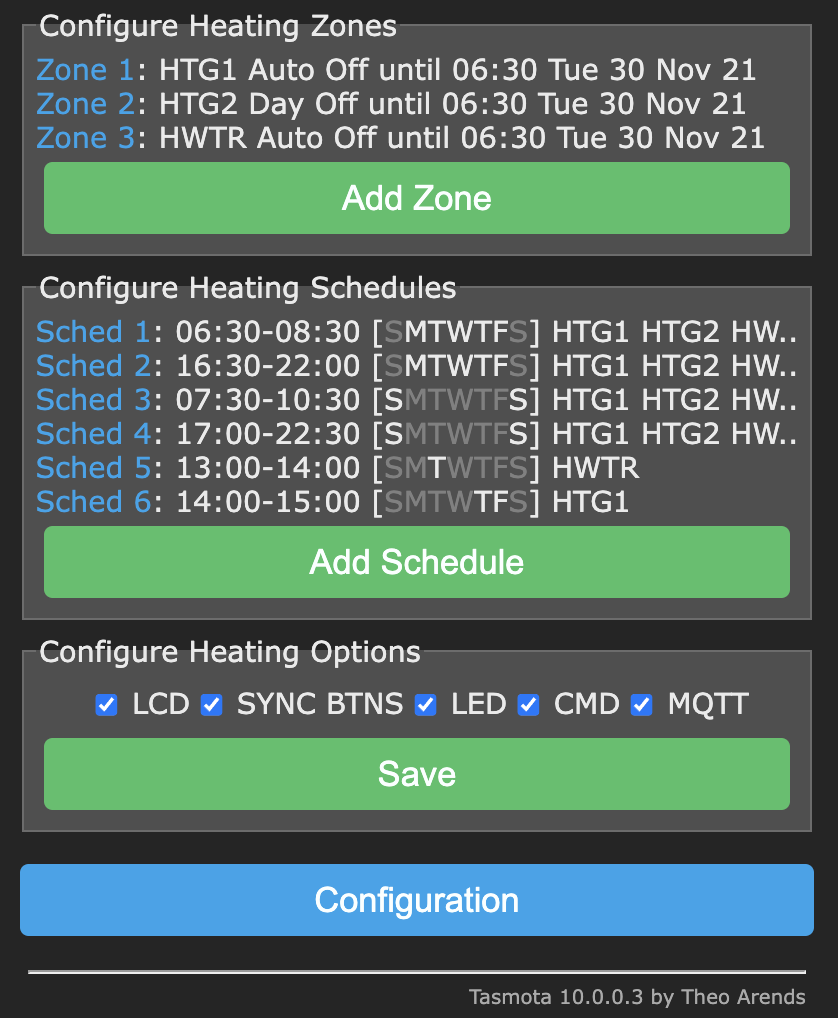
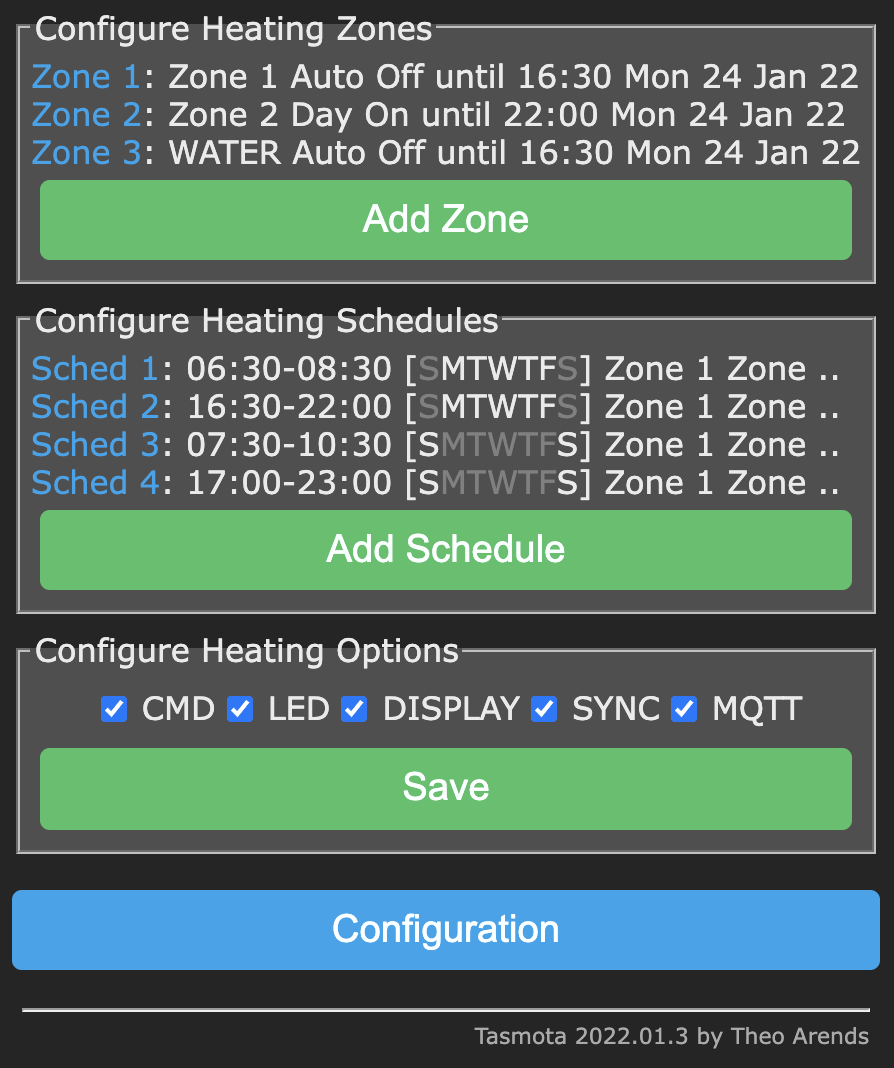
Updated readme

diff --git a/README.md b/README.md
@@ -2,7 +2,7 @@
 
 ## Introduction
 
-This is a multi-zone heating controller written in the Berry scripting language designed to run on an ESP32 microcontroller running the latest Tasmota32.bin development branch firmware.
+This is a multi-zone heating controller written in the Berry scripting language designed to run on an ESP32 microcontroller running the latest Tasmota32.bin development branch firmware (or Tasmota32-lvgl.bin if you are using an LVGL touch screen).
 
 This heating controller gives independent time control over multiple channels or "zones" (1 zone per relay) on a 7 day weekly programme. Each channel/zone can have any number of programmed on/off schedules. 
 
@@ -18,9 +18,17 @@ This heating controller gives independent time control over multiple channels or
 * A custom Tasmota "zone" command can be used to turn the zone on/off and switch mode (see below). 
 * A custom Tasmota "schedule" command can be used to add/update/delete schedules (see below).
 * If Alexa/Hue emulation is enabled, when the power state of the relay is changed via Alexa (or MQTT or by pressing the Tasmota web UI relay buttons) the relevant heating zone's status is synchronised.
-* A basic I2C LCD 20x4 screen is supported out of the box. The first line displays date/time; the other 3 lines display on/off times for up to 3 zones.
+* Two types of display are supported: 1) A basic HD44780 20x4 I2C LCD, or 2) a 320x240 SPI ILI9341 with XPT2046 touch controller. If either of these devices is attached and correctly configured the heating controller will detect and use the appropriate display. NB for the touch screen the latest pre-compiled tassmota32-lvgl.bin development firmware is required. Before installing the heating controller app the touch screen should be calibrated using the [calibration app](https://github.com/arendst/Tasmota/pull/14459). Both screens can display up to 3 zones.
 
-<img src="screenshots/lcd.jpg" width="400">
+ILI9341 / XP2046 Display (using Tasmota32-lvgl.bin firmware)
+
+<img src="screenshots/lvgl_display1.png" width="200">
+<img src="screenshots/lvgl_display2.png" width="200">
+
+
+Basic 4x20 HD44780 Display (using tasmota32.bin firmware)
+
+<img src="screenshots/4x20lcd.png" width="400">
 
 ### Operating Modes
 
@@ -41,7 +49,7 @@ Download the latest Tasmota ESP32 development branch firmware from:
 
 <http://ota.tasmota.com/tasmota32/>
 
-This heating controller was tested with Tasmota32.bin 
+This heating controller was tested with Tasmota32.bin and Tasmota32-lvgl.bin (for touch screen support).
 
 ### 2. Configure Template
 
@@ -117,8 +125,8 @@ Options can be enabled/disabled by using the Configure Heating web page.
 
 | Option    | Notes                                        |
 :-----------|:---------------------------------------------|
-`LCD`       | Enables/Disables a 4x20 LCD dot matrix screen
-`SYNC BTNS` | If enabled the Tasmota Relay Toggle buttons are renamed and kept in sync with heating zone names
+`DISPLAY`       | Enables/Disables a configured display
+`SYNC` | If enabled the Tasmota Relay Toggle buttons are renamed and kept in sync with heating zone names
 `LED`       | If enabled, individual WS2812 LED pixels can act as zone indicators
 `CMD`       | If enabled, the zone and schedule commands can be used via the Tasmota Console or MQTT
 `MQTT`      | If enabled MQTT telemetry is appended to teleperiod and MQTT heating status messages are published
@@ -138,5 +146,5 @@ Please report any problems using Github Issues.
 
 ## Planned Enhancements
 
-Implement custom command to update options. Implement new LVGL touch display driver. Support thermostat set temp/room sensor input (this will require berry Hue/Alexa & virtual relay integration). 
+Implement custom command to update options. Support thermostat set temp/room sensor input (this will require berry Hue/Alexa & virtual relay integration). 
 
